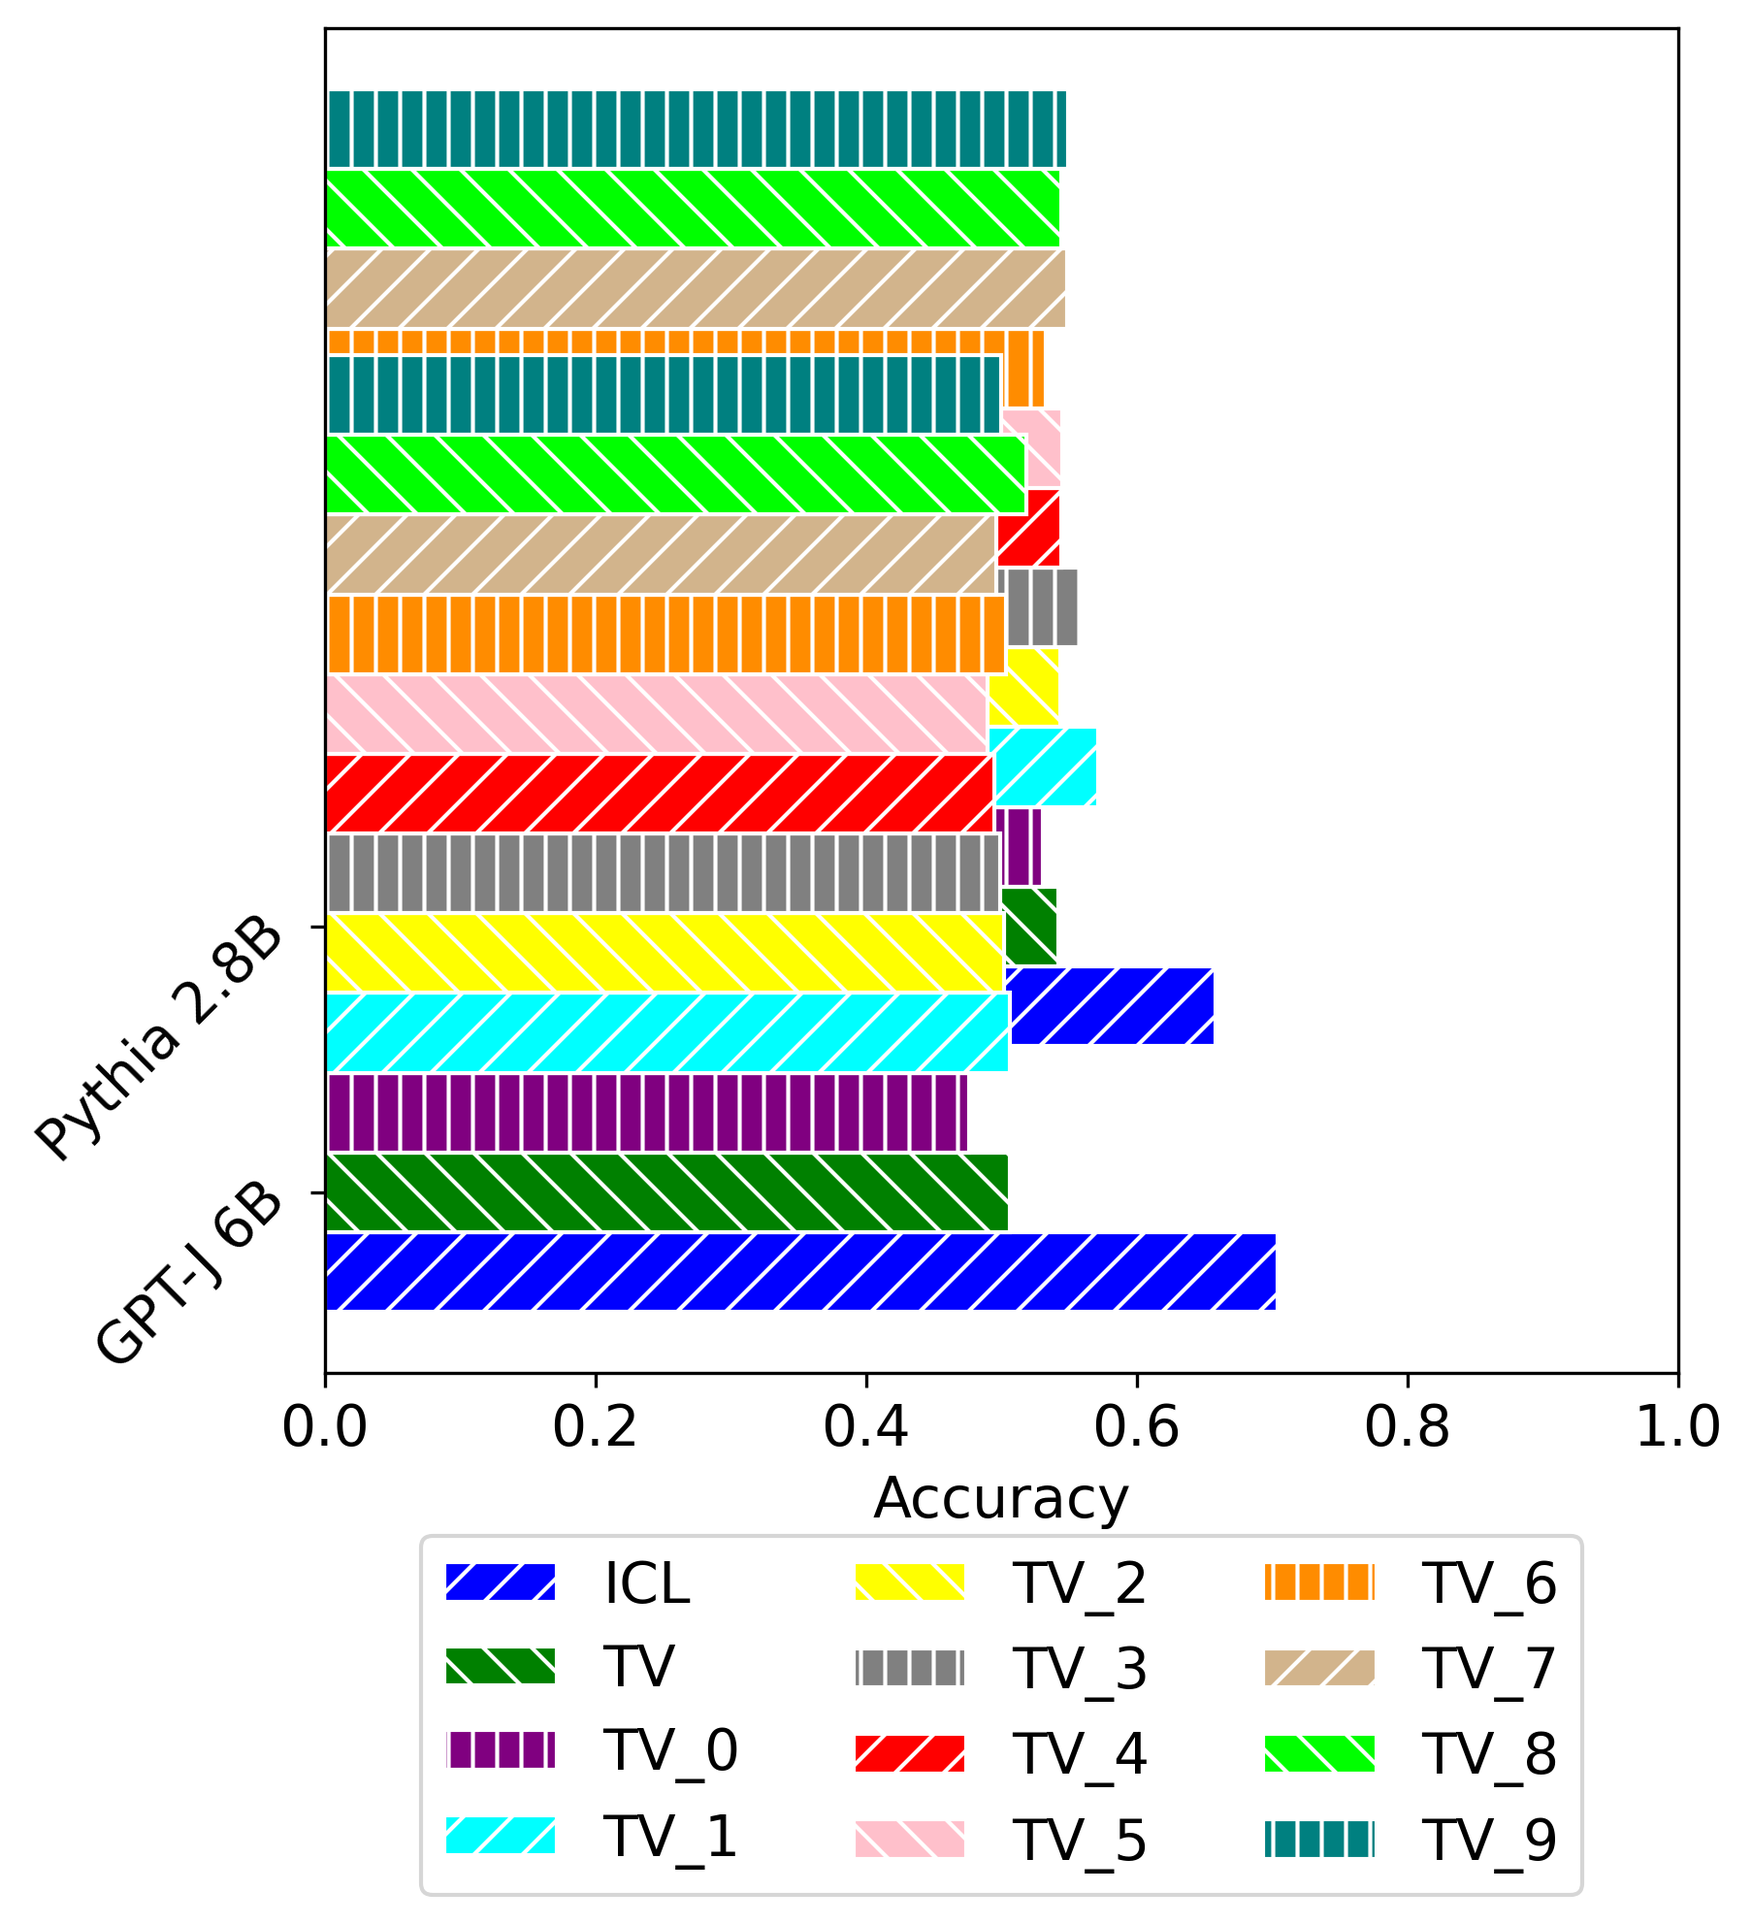
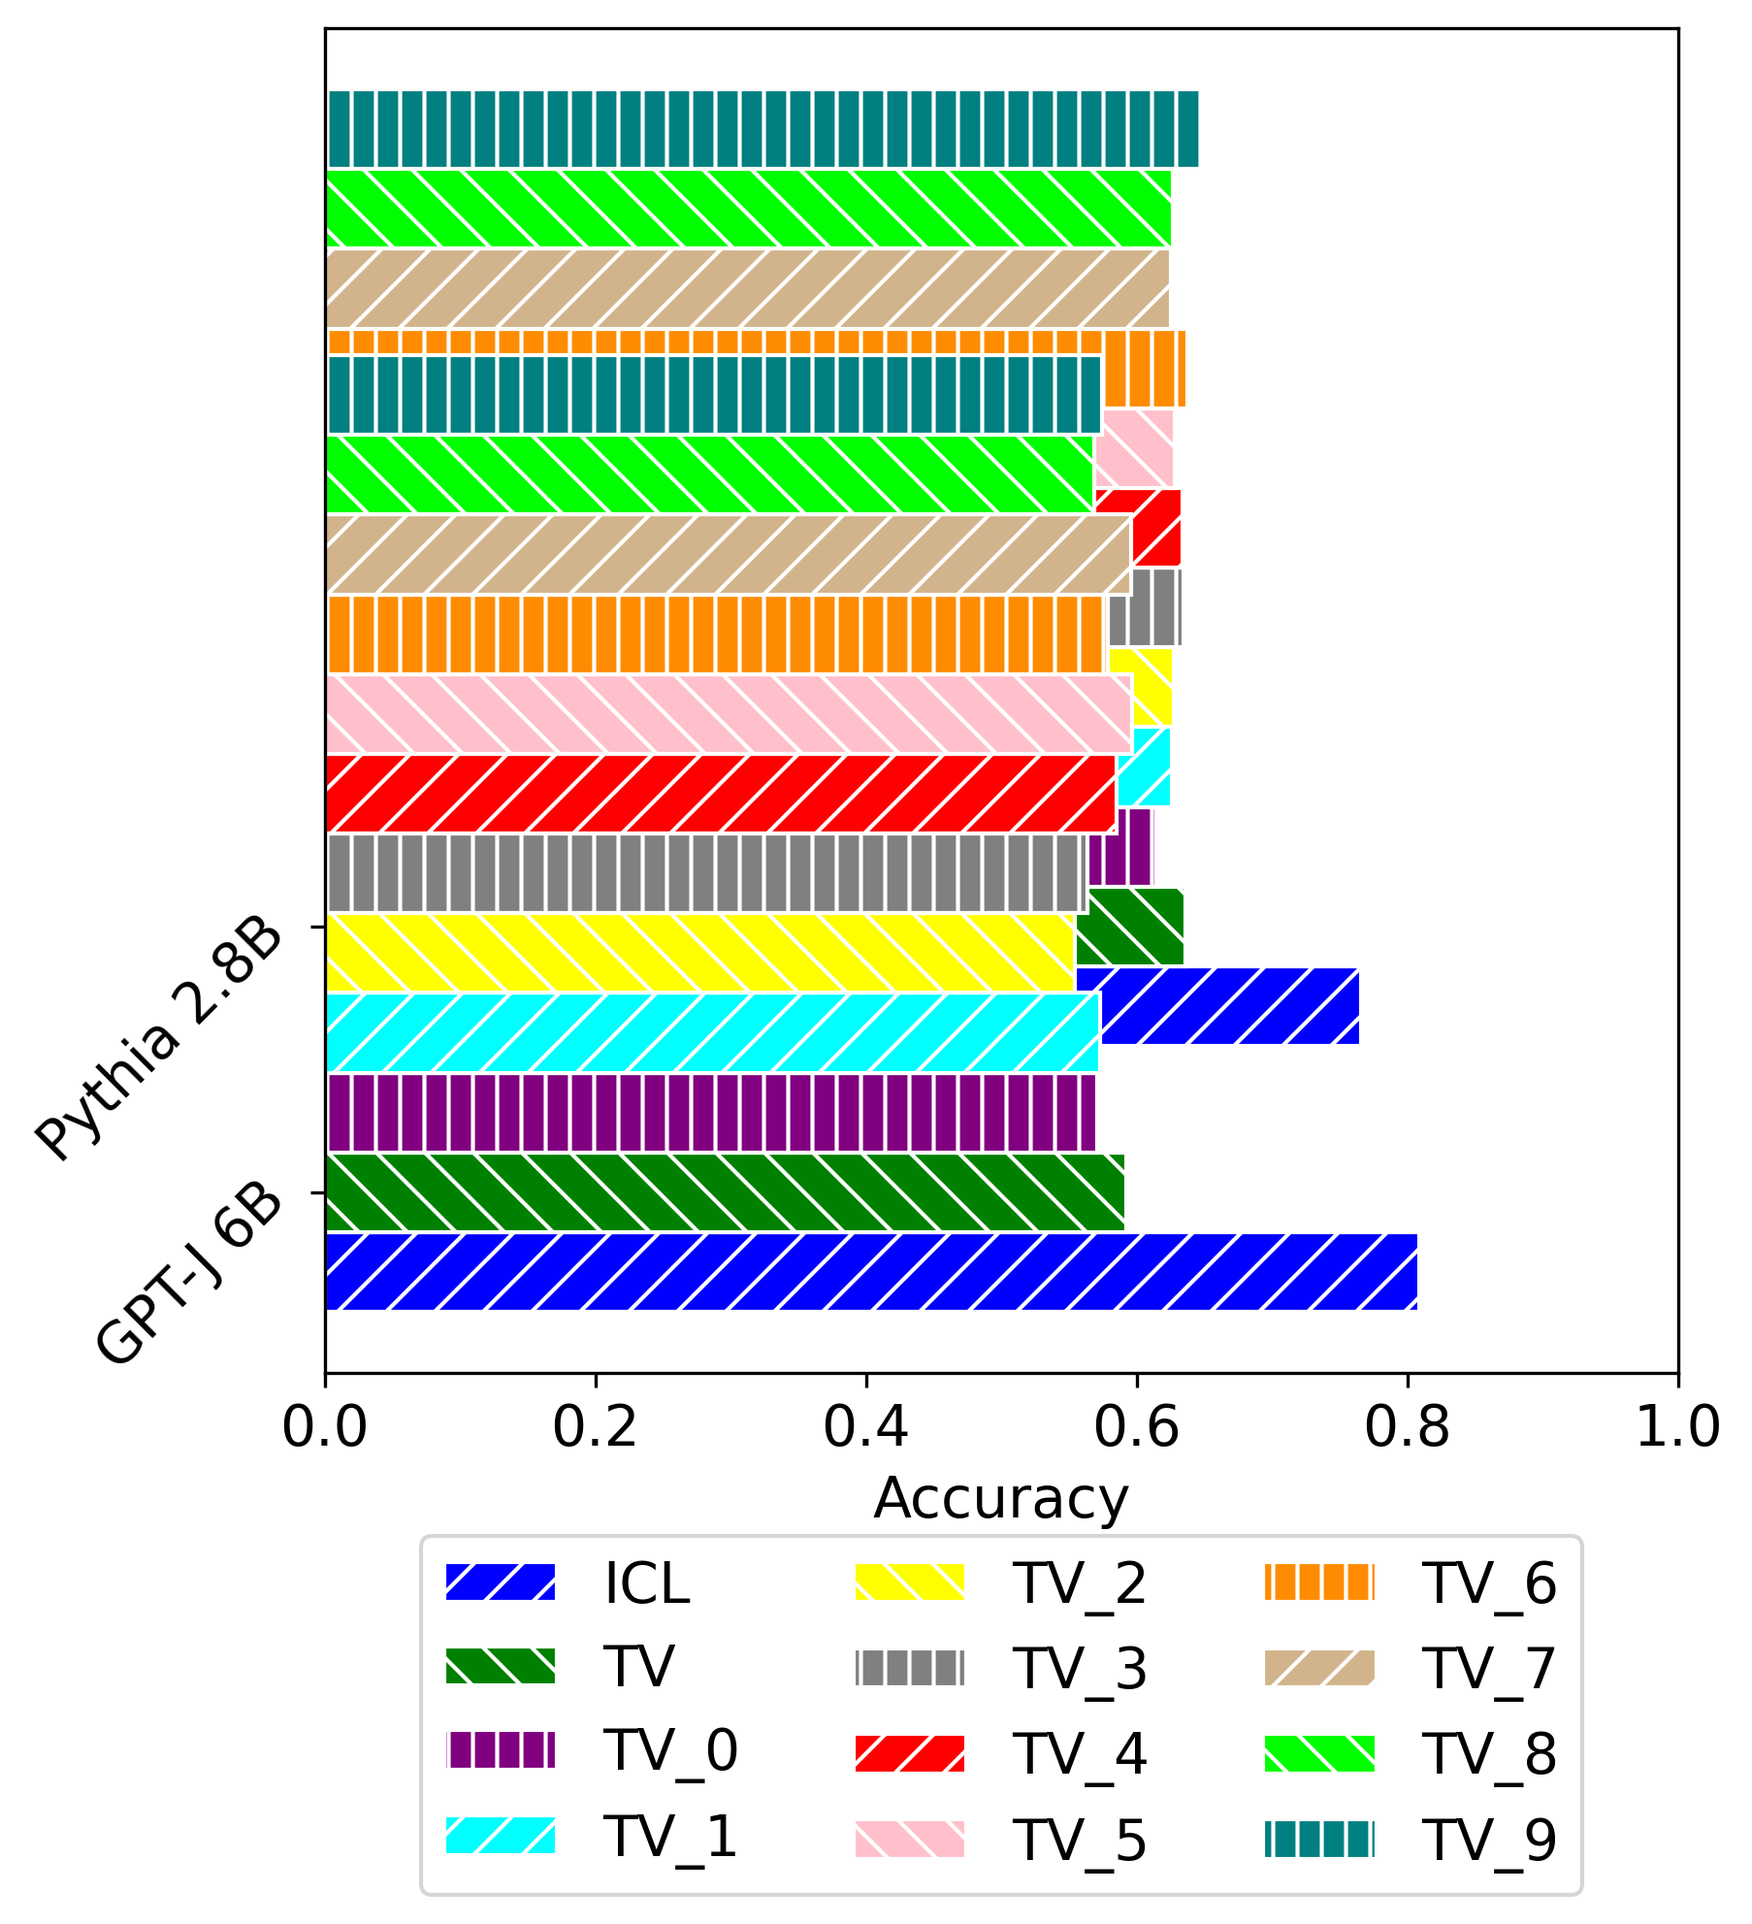
layer-1

Changed region(s): [[0.5271, 0.0308, 0.7752, 0.646], [0.7132, 0.6152, 0.8062, 0.7075]]

diff --git a/outputs/figures/main_experiment_results_table.tex b/outputs/figures/main_experiment_results_table.tex
@@ -19,49 +19,49 @@ Model & Task type & Task name &  &  &  &  &  &  &  &  &  &  &  &  &  \\
 \midrule
     \endhead
     
-\multirow[t]{18}{*}{GPT-J 6B} & \multirow[t]{6}{*}{Algorithmic} & List first & 0.23 & 0.89 & 0.71 & 0.66 & 0.61 & 0.65 & 0.62 & 0.68 & 0.62 & 0.69 & 0.68 & 0.68 & 0.64 \\
- &  & List last & 0.31 & 0.68 & 0.42 & 0.45 & 0.45 & 0.46 & 0.36 & 0.42 & 0.42 & 0.34 & 0.39 & 0.41 & 0.41 \\
- &  & Next letter & 0.26 & 0.81 & 0.86 & 0.82 & 0.86 & 0.82 & 0.82 & 0.88 & 0.81 & 0.88 & 0.82 & 0.88 & 0.82 \\
- &  & Prev letter & 0.10 & 0.05 & 0.15 & 0.12 & 0.12 & 0.12 & 0.10 & 0.20 & 0.11 & 0.09 & 0.15 & 0.16 & 0.15 \\
- &  & To lower & 0.00 & 0.94 & 0.03 & 0.07 & 0.06 & 0.11 & 0.11 & 0.11 & 0.03 & 0.10 & 0.11 & 0.09 & 0.03 \\
- &  & To upper & 0.00 & 1.00 & 0.17 & 0.14 & 0.17 & 0.15 & 0.15 & 0.21 & 0.15 & 0.19 & 0.15 & 0.15 & 0.19 \\
+\multirow[t]{18}{*}{GPT-J 6B} & \multirow[t]{6}{*}{Algorithmic} & List first & 0.23 & 0.90 & 0.80 & 0.78 & 0.70 & 0.74 & 0.75 & 0.76 & 0.76 & 0.75 & 0.80 & 0.78 & 0.71 \\
+ &  & List last & 0.31 & 0.93 & 0.47 & 0.44 & 0.40 & 0.44 & 0.39 & 0.50 & 0.47 & 0.45 & 0.47 & 0.39 & 0.47 \\
+ &  & Next letter & 0.24 & 0.89 & 0.93 & 0.91 & 0.89 & 0.90 & 0.88 & 0.93 & 0.89 & 0.90 & 0.88 & 0.90 & 0.89 \\
+ &  & Prev letter & 0.05 & 0.12 & 0.23 & 0.17 & 0.20 & 0.20 & 0.24 & 0.25 & 0.21 & 0.17 & 0.19 & 0.20 & 0.21 \\
+ &  & To lower & 0.00 & 1.00 & 0.04 & 0.04 & 0.04 & 0.14 & 0.07 & 0.09 & 0.05 & 0.06 & 0.06 & 0.05 & 0.04 \\
+ &  & To upper & 0.00 & 1.00 & 0.50 & 0.56 & 0.46 & 0.42 & 0.42 & 0.54 & 0.49 & 0.47 & 0.45 & 0.49 & 0.53 \\
 \cline{2-16}
- & \multirow[t]{4}{*}{Knowledge} & Country capital & 0.13 & 0.53 & 0.50 & 0.39 & 0.53 & 0.53 & 0.49 & 0.49 & 0.49 & 0.50 & 0.42 & 0.51 & 0.46 \\
- &  & Location continent & 0.02 & 0.55 & 0.49 & 0.35 & 0.50 & 0.44 & 0.54 & 0.47 & 0.54 & 0.47 & 0.50 & 0.56 & 0.41 \\
- &  & Location religion & 0.06 & 0.61 & 0.47 & 0.47 & 0.42 & 0.42 & 0.50 & 0.42 & 0.50 & 0.41 & 0.42 & 0.50 & 0.49 \\
- &  & Person language & 0.01 & 0.80 & 0.80 & 0.72 & 0.79 & 0.75 & 0.72 & 0.70 & 0.80 & 0.80 & 0.81 & 0.75 & 0.78 \\
+ & \multirow[t]{4}{*}{Knowledge} & Country capital & 0.19 & 0.54 & 0.42 & 0.45 & 0.44 & 0.47 & 0.38 & 0.51 & 0.50 & 0.46 & 0.49 & 0.47 & 0.42 \\
+ &  & Location continent & 0.02 & 0.76 & 0.66 & 0.56 & 0.56 & 0.42 & 0.50 & 0.59 & 0.56 & 0.56 & 0.56 & 0.46 & 0.56 \\
+ &  & Location religion & 0.12 & 0.69 & 0.56 & 0.55 & 0.60 & 0.47 & 0.61 & 0.50 & 0.59 & 0.57 & 0.66 & 0.53 & 0.61 \\
+ &  & Person language & 0.03 & 0.80 & 0.71 & 0.70 & 0.69 & 0.65 & 0.71 & 0.66 & 0.75 & 0.68 & 0.72 & 0.69 & 0.70 \\
 \cline{2-16}
- & \multirow[t]{4}{*}{Linguistic} & Antonyms & 0.38 & 0.74 & 0.65 & 0.60 & 0.60 & 0.69 & 0.61 & 0.60 & 0.65 & 0.69 & 0.64 & 0.68 & 0.68 \\
- &  & Plural singular & 0.02 & 0.69 & 0.57 & 0.64 & 0.66 & 0.62 & 0.56 & 0.64 & 0.59 & 0.56 & 0.60 & 0.56 & 0.55 \\
- &  & Present simple gerund & 0.00 & 0.60 & 0.50 & 0.47 & 0.47 & 0.49 & 0.49 & 0.50 & 0.49 & 0.50 & 0.50 & 0.51 & 0.54 \\
- &  & Present simple past simple & 0.01 & 0.54 & 0.55 & 0.53 & 0.59 & 0.57 & 0.59 & 0.49 & 0.47 & 0.54 & 0.57 & 0.59 & 0.53 \\
+ & \multirow[t]{4}{*}{Linguistic} & Antonyms & 0.32 & 0.74 & 0.68 & 0.60 & 0.71 & 0.69 & 0.66 & 0.61 & 0.64 & 0.66 & 0.68 & 0.66 & 0.62 \\
+ &  & Plural singular & 0.02 & 0.80 & 0.72 & 0.70 & 0.74 & 0.69 & 0.72 & 0.69 & 0.74 & 0.71 & 0.76 & 0.75 & 0.62 \\
+ &  & Present simple gerund & 0.00 & 0.84 & 0.62 & 0.64 & 0.65 & 0.71 & 0.74 & 0.72 & 0.72 & 0.64 & 0.71 & 0.70 & 0.74 \\
+ &  & Present simple past simple & 0.01 & 0.80 & 0.61 & 0.57 & 0.56 & 0.49 & 0.59 & 0.55 & 0.59 & 0.59 & 0.60 & 0.55 & 0.53 \\
 \cline{2-16}
- & \multirow[t]{4}{*}{Translation} & En es & 0.23 & 0.31 & 0.39 & 0.40 & 0.38 & 0.38 & 0.39 & 0.40 & 0.40 & 0.35 & 0.38 & 0.39 & 0.39 \\
- &  & En fr & 0.26 & 0.36 & 0.39 & 0.44 & 0.46 & 0.47 & 0.45 & 0.45 & 0.44 & 0.40 & 0.44 & 0.41 & 0.40 \\
- &  & Es en & 0.12 & 0.70 & 0.50 & 0.41 & 0.47 & 0.46 & 0.47 & 0.42 & 0.41 & 0.54 & 0.39 & 0.53 & 0.56 \\
- &  & Fr en & 0.08 & 0.50 & 0.35 & 0.40 & 0.39 & 0.35 & 0.44 & 0.39 & 0.38 & 0.35 & 0.42 & 0.39 & 0.42 \\
+ & \multirow[t]{4}{*}{Translation} & En es & 0.25 & 0.41 & 0.35 & 0.31 & 0.30 & 0.33 & 0.33 & 0.31 & 0.33 & 0.33 & 0.28 & 0.30 & 0.33 \\
+ &  & En fr & 0.13 & 0.26 & 0.26 & 0.30 & 0.28 & 0.29 & 0.29 & 0.26 & 0.29 & 0.29 & 0.25 & 0.30 & 0.31 \\
+ &  & Es en & 0.02 & 0.74 & 0.62 & 0.60 & 0.57 & 0.54 & 0.59 & 0.60 & 0.68 & 0.60 & 0.60 & 0.68 & 0.59 \\
+ &  & Fr en & 0.10 & 0.71 & 0.53 & 0.46 & 0.57 & 0.54 & 0.44 & 0.53 & 0.53 & 0.56 & 0.49 & 0.44 & 0.57 \\
 \cline{1-16} \cline{2-16}
-\multirow[t]{18}{*}{Pythia 2.8B} & \multirow[t]{6}{*}{Algorithmic} & List first & 0.65 & 0.95 & 0.95 & 0.93 & 0.91 & 0.91 & 0.94 & 0.91 & 0.94 & 0.89 & 0.89 & 0.93 & 0.93 \\
- &  & List last & 0.02 & 0.84 & 0.82 & 0.74 & 0.81 & 0.82 & 0.75 & 0.79 & 0.70 & 0.74 & 0.71 & 0.85 & 0.80 \\
- &  & Next letter & 0.45 & 0.59 & 0.68 & 0.65 & 0.69 & 0.66 & 0.69 & 0.69 & 0.66 & 0.68 & 0.62 & 0.64 & 0.66 \\
- &  & Prev letter & 0.04 & 0.01 & 0.03 & 0.03 & 0.03 & 0.03 & 0.03 & 0.03 & 0.03 & 0.03 & 0.03 & 0.03 & 0.01 \\
- &  & To lower & 0.00 & 0.76 & 0.41 & 0.51 & 0.51 & 0.40 & 0.53 & 0.49 & 0.40 & 0.39 & 0.50 & 0.44 & 0.51 \\
- &  & To upper & 0.00 & 1.00 & 0.88 & 0.91 & 0.95 & 0.93 & 0.93 & 0.86 & 0.93 & 0.85 & 0.93 & 0.89 & 0.95 \\
+\multirow[t]{18}{*}{Pythia 2.8B} & \multirow[t]{6}{*}{Algorithmic} & List first & 0.65 & 0.95 & 0.95 & 0.93 & 0.86 & 0.94 & 0.94 & 0.96 & 0.94 & 0.94 & 0.91 & 0.99 & 0.97 \\
+ &  & List last & 0.02 & 0.95 & 0.91 & 0.90 & 0.93 & 0.94 & 0.89 & 0.96 & 0.93 & 0.94 & 0.93 & 0.89 & 0.91 \\
+ &  & Next letter & 0.51 & 0.88 & 0.72 & 0.65 & 0.80 & 0.74 & 0.71 & 0.74 & 0.74 & 0.71 & 0.75 & 0.71 & 0.69 \\
+ &  & Prev letter & 0.01 & 0.16 & 0.15 & 0.16 & 0.21 & 0.16 & 0.12 & 0.11 & 0.20 & 0.17 & 0.17 & 0.19 & 0.19 \\
+ &  & To lower & 0.00 & 1.00 & 0.96 & 0.89 & 0.89 & 0.90 & 0.94 & 0.91 & 0.90 & 0.90 & 0.95 & 0.95 & 0.95 \\
+ &  & To upper & 0.00 & 1.00 & 0.93 & 0.91 & 0.89 & 0.96 & 0.96 & 0.93 & 0.88 & 0.90 & 0.97 & 0.93 & 0.91 \\
 \cline{2-16}
- & \multirow[t]{4}{*}{Knowledge} & Country capital & 0.12 & 0.54 & 0.51 & 0.51 & 0.54 & 0.51 & 0.49 & 0.50 & 0.54 & 0.41 & 0.53 & 0.51 & 0.47 \\
- &  & Location continent & 0.01 & 0.56 & 0.49 & 0.47 & 0.51 & 0.57 & 0.60 & 0.54 & 0.54 & 0.59 & 0.56 & 0.54 & 0.51 \\
- &  & Location religion & 0.05 & 0.41 & 0.35 & 0.33 & 0.39 & 0.24 & 0.41 & 0.44 & 0.30 & 0.42 & 0.36 & 0.35 & 0.35 \\
- &  & Person language & 0.01 & 0.72 & 0.69 & 0.57 & 0.62 & 0.51 & 0.55 & 0.61 & 0.64 & 0.66 & 0.64 & 0.65 & 0.56 \\
+ & \multirow[t]{4}{*}{Knowledge} & Country capital & 0.15 & 0.54 & 0.46 & 0.49 & 0.50 & 0.44 & 0.56 & 0.56 & 0.57 & 0.57 & 0.54 & 0.56 & 0.55 \\
+ &  & Location continent & 0.04 & 0.75 & 0.66 & 0.57 & 0.62 & 0.57 & 0.56 & 0.64 & 0.60 & 0.61 & 0.55 & 0.55 & 0.61 \\
+ &  & Location religion & 0.13 & 0.59 & 0.51 & 0.51 & 0.54 & 0.53 & 0.56 & 0.54 & 0.53 & 0.60 & 0.57 & 0.51 & 0.62 \\
+ &  & Person language & 0.02 & 0.69 & 0.60 & 0.69 & 0.59 & 0.59 & 0.64 & 0.66 & 0.68 & 0.62 & 0.65 & 0.59 & 0.66 \\
 \cline{2-16}
- & \multirow[t]{4}{*}{Linguistic} & Antonyms & 0.35 & 0.57 & 0.55 & 0.53 & 0.60 & 0.55 & 0.55 & 0.53 & 0.57 & 0.53 & 0.55 & 0.60 & 0.50 \\
- &  & Plural singular & 0.06 & 0.65 & 0.60 & 0.62 & 0.66 & 0.64 & 0.64 & 0.54 & 0.64 & 0.60 & 0.60 & 0.55 & 0.62 \\
- &  & Present simple gerund & 0.00 & 0.65 & 0.35 & 0.38 & 0.46 & 0.42 & 0.44 & 0.34 & 0.45 & 0.39 & 0.45 & 0.46 & 0.44 \\
- &  & Present simple past simple & 0.01 & 0.75 & 0.57 & 0.54 & 0.50 & 0.55 & 0.59 & 0.56 & 0.56 & 0.50 & 0.57 & 0.45 & 0.59 \\
+ & \multirow[t]{4}{*}{Linguistic} & Antonyms & 0.44 & 0.72 & 0.55 & 0.61 & 0.54 & 0.56 & 0.60 & 0.55 & 0.54 & 0.54 & 0.50 & 0.53 & 0.57 \\
+ &  & Plural singular & 0.04 & 0.69 & 0.59 & 0.56 & 0.56 & 0.59 & 0.54 & 0.60 & 0.59 & 0.56 & 0.50 & 0.59 & 0.64 \\
+ &  & Present simple gerund & 0.00 & 0.81 & 0.64 & 0.55 & 0.66 & 0.68 & 0.66 & 0.59 & 0.59 & 0.62 & 0.66 & 0.64 & 0.68 \\
+ &  & Present simple past simple & 0.04 & 0.88 & 0.75 & 0.72 & 0.69 & 0.69 & 0.74 & 0.71 & 0.70 & 0.76 & 0.68 & 0.75 & 0.75 \\
 \cline{2-16}
- & \multirow[t]{4}{*}{Translation} & En es & 0.04 & 0.30 & 0.24 & 0.21 & 0.23 & 0.23 & 0.23 & 0.21 & 0.23 & 0.21 & 0.23 & 0.20 & 0.21 \\
- &  & En fr & 0.12 & 0.25 & 0.28 & 0.30 & 0.30 & 0.30 & 0.30 & 0.25 & 0.28 & 0.30 & 0.26 & 0.29 & 0.29 \\
- &  & Es en & 0.19 & 0.64 & 0.42 & 0.36 & 0.46 & 0.46 & 0.38 & 0.47 & 0.41 & 0.42 & 0.39 & 0.40 & 0.42 \\
- &  & Fr en & 0.16 & 0.53 & 0.29 & 0.35 & 0.41 & 0.40 & 0.40 & 0.38 & 0.34 & 0.39 & 0.33 & 0.35 & 0.36 \\
+ & \multirow[t]{4}{*}{Translation} & En es & 0.08 & 0.56 & 0.24 & 0.25 & 0.24 & 0.24 & 0.25 & 0.24 & 0.24 & 0.24 & 0.23 & 0.25 & 0.25 \\
+ &  & En fr & 0.11 & 0.53 & 0.30 & 0.29 & 0.26 & 0.26 & 0.28 & 0.28 & 0.28 & 0.28 & 0.30 & 0.24 & 0.28 \\
+ &  & Es en & 0.15 & 0.81 & 0.50 & 0.49 & 0.53 & 0.54 & 0.49 & 0.50 & 0.51 & 0.51 & 0.50 & 0.46 & 0.50 \\
+ &  & Fr en & 0.19 & 0.68 & 0.54 & 0.44 & 0.55 & 0.51 & 0.47 & 0.41 & 0.49 & 0.53 & 0.44 & 0.53 & 0.45 \\
 \cline{1-16} \cline{2-16}
 \bottomrule
 \end{longtable}

diff --git a/outputs/figures/top_tokens_table.tex b/outputs/figures/top_tokens_table.tex
@@ -2,15 +2,15 @@
 \toprule
  &  & 0 \\
 \midrule
-\multirow[t]{4}{*}{pythia_2.8B} & algorithmic_prev_letter & pril, amsbsy, ndef, amsfonts, ibase, aeda, Syrac, lemn, tocol, amssymb, OOST, erl, BytePtrFromString, omitempty, obuf, advertis, answ, debted, errnoErr, conspir \\
- & translation_fr_en & PLIED, OOST, ovember, CURI, Accessor, RAF, THEORY, fileID, plural, HECK, REEK, aturday, SAME, noc, perty, PARTICULAR, omitempty, aeda, SEQU, pril \\
- & linguistic_present_simple_gerund & PLIED, RAF, Accessor, OOST, CLUDING, ovember, ACP, POSE, prehens, OMEM, fileID, CURI, CHANT, rapeutics, THEORY, SAME, gree, cknowled, omat, STRICT \\
- & knowledge_country_capital & thous, answ, CURI, HECK, OOST, RAF, advertis, uncert, orche, establ, satell, REEK, strugg, tomat, assertEquals, laug, congression, SAME, ITERATION, therap \\
+\multirow[t]{4}{*}{pythia_2.8B} & algorithmic_prev_letter & aeda, thous, OOST, preced, CURI, perty, prehens, IRST, preceded, foo, PARTICULAR, ovember, advertis, CLUDING, satell, vess, gether, veloc, previous, orche \\
+ & translation_fr_en & OOST, CURI, PLIED, orect, CHANT, Lemmon, RAF, REEK, HECK, BASIS, ovember, PARTICULAR, rapeutics, fileID, aturday, IRST, qc, YING, CLUDING, ITH \\
+ & linguistic_present_simple_gerund & PLIED, RAF, YING, CURI, OOST, Accessor, CHANT, fileID, ovember, CLUDING, unnumbered, perty, HECK, GAN, rapeutics, quo, rans, rv, omat, UNC \\
+ & knowledge_country_capital & thous, answ, HECK, CURI, OOST, RAF, advertis, uncert, orche, laug, establ, strugg, acknow, tomat, satell, Syrac, POSE, fileID, ITERATION, behav \\
 \cline{1-3}
-\multirow[t]{4}{*}{gpt-j_6B} & algorithmic_prev_letter & name, is, world, next, m, id, v, test, s, g, es, related, ers, set, another, age, user, ms, n, ies \\
- & translation_fr_en & name, related, is, id, per, next, form, string, n, s, code, car, cancer, type, active, class, ref, the, get, translation \\
- & linguistic_present_simple_gerund & using, active, playing, world, being, getting, related, s, per, d, user, the, search, talking, reading, testing, going, is, writing, moving \\
- & knowledge_country_capital & West, London, South, Northern, East, Germany, Eastern, New, North, The, Tokyo, United, Mexico, Berlin, California, Spain, city, southern, Paris, Philadelphia \\
+\multirow[t]{4}{*}{gpt-j_6B} & algorithmic_prev_letter & c, m, d, f, s, j, i, e, g, p, b, a, n, x, v, hello, t, l, k, open \\
+ & translation_fr_en & name, other, the, car, s, is, true, F, n, b, active, related, social, cancer, public, ms, head, Q, form, whole \\
+ & linguistic_present_simple_gerund & getting, playing, working, storing, making, the, using, doing, being, moving, talking, active, s, feeding, shooting, driving, teaching, putting, c, d \\
+ & knowledge_country_capital & London, West, South, East, Paris, New, North, Tokyo, The, Germany, Berlin, City, s, San, Mexico, Northern, United, Chicago, cities, A \\
 \cline{1-3}
 \bottomrule
 \end{tabular}

diff --git a/core/task_vectors.py b/core/task_vectors.py
@@ -96,7 +96,7 @@ def stack_helper(
     ]
     new_task_hiddens = get_task_hiddens(model, tokenizer, task, new_test_datasets, multi_context=multi_context,
                                         moderate=True, prev_hiddens=task_hiddens,
-                                        prev_intermediate_layer=best_intermediate_layer)
+                                        prev_intermediate_layer=best_intermediate_layer-1)
     stack_predictions = modulated_generate(
         model,
         tokenizer,
@@ -242,8 +242,8 @@ def stack_get_single_context_task_hiddens(
     prev_intermediate_layer: Union[int, torch.Tensor] = 2,
     num_test_inputs_to_avg: int = 1,  # 2
 ) -> torch.Tensor:
-    for idx, train_in in enumerate(datasets[0].train_inputs):
-        datasets[0].train_inputs[idx] = ' ' + train_in
+   # for idx, train_in in enumerate(datasets[0].train_inputs):
+   #     datasets[0].train_inputs[idx] = ' ' + train_in
     new_datasets = [
         FewShotDataset(
             train_inputs=dataset.train_inputs,
@@ -260,7 +260,7 @@ def stack_get_single_context_task_hiddens(
     # Stack hidden states
     if isinstance(prev_intermediate_layer, int):
         prev_intermediate_layer = torch.tensor(prev_intermediate_layer).repeat(len(inputs["input_ids"]))
-    injection_positions = 0 * torch.ones_like(prev_intermediate_layer, dtype=torch.long)  # -1
+    injection_positions = -1 * torch.ones_like(prev_intermediate_layer, dtype=torch.long)  # -1
     prev_hiddens = prev_hiddens[torch.arange(len(prev_intermediate_layer)), prev_intermediate_layer]
 
     forward_modifiers = [

diff --git a/scripts/figures/main.py b/scripts/figures/main.py
@@ -309,5 +309,5 @@ def create_all_figures(experiment_id: str):
 
 
 if __name__ == "__main__":
-    experiment_id = "15"
+    experiment_id = "16"
     create_all_figures(experiment_id)
